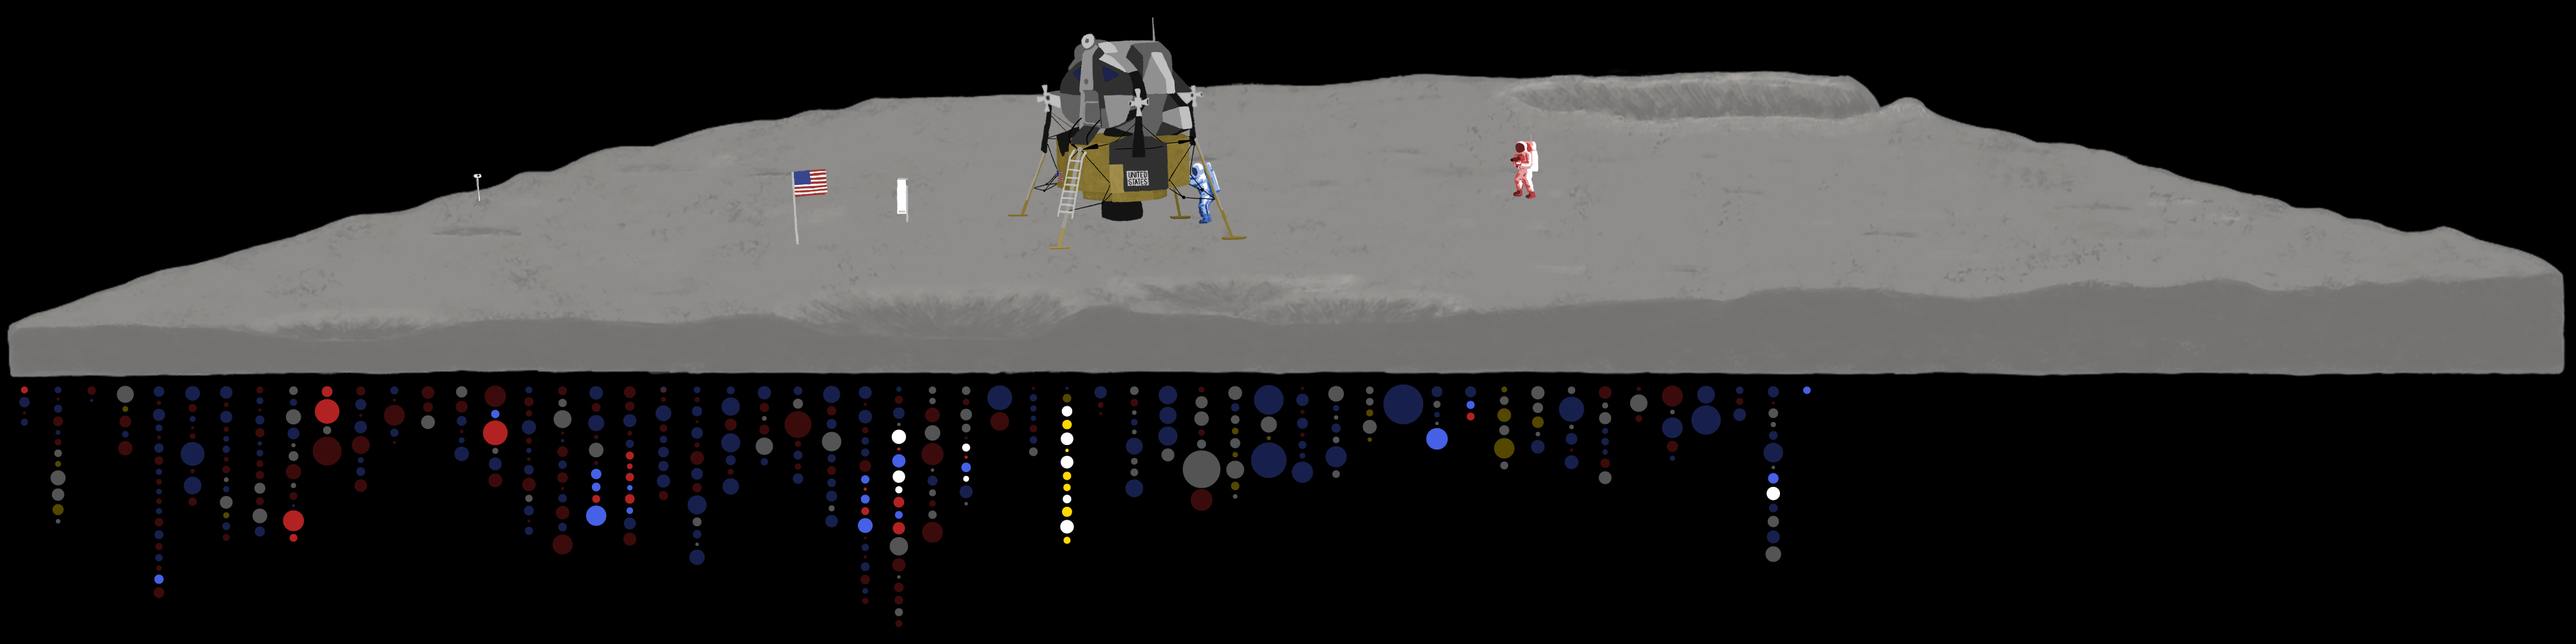
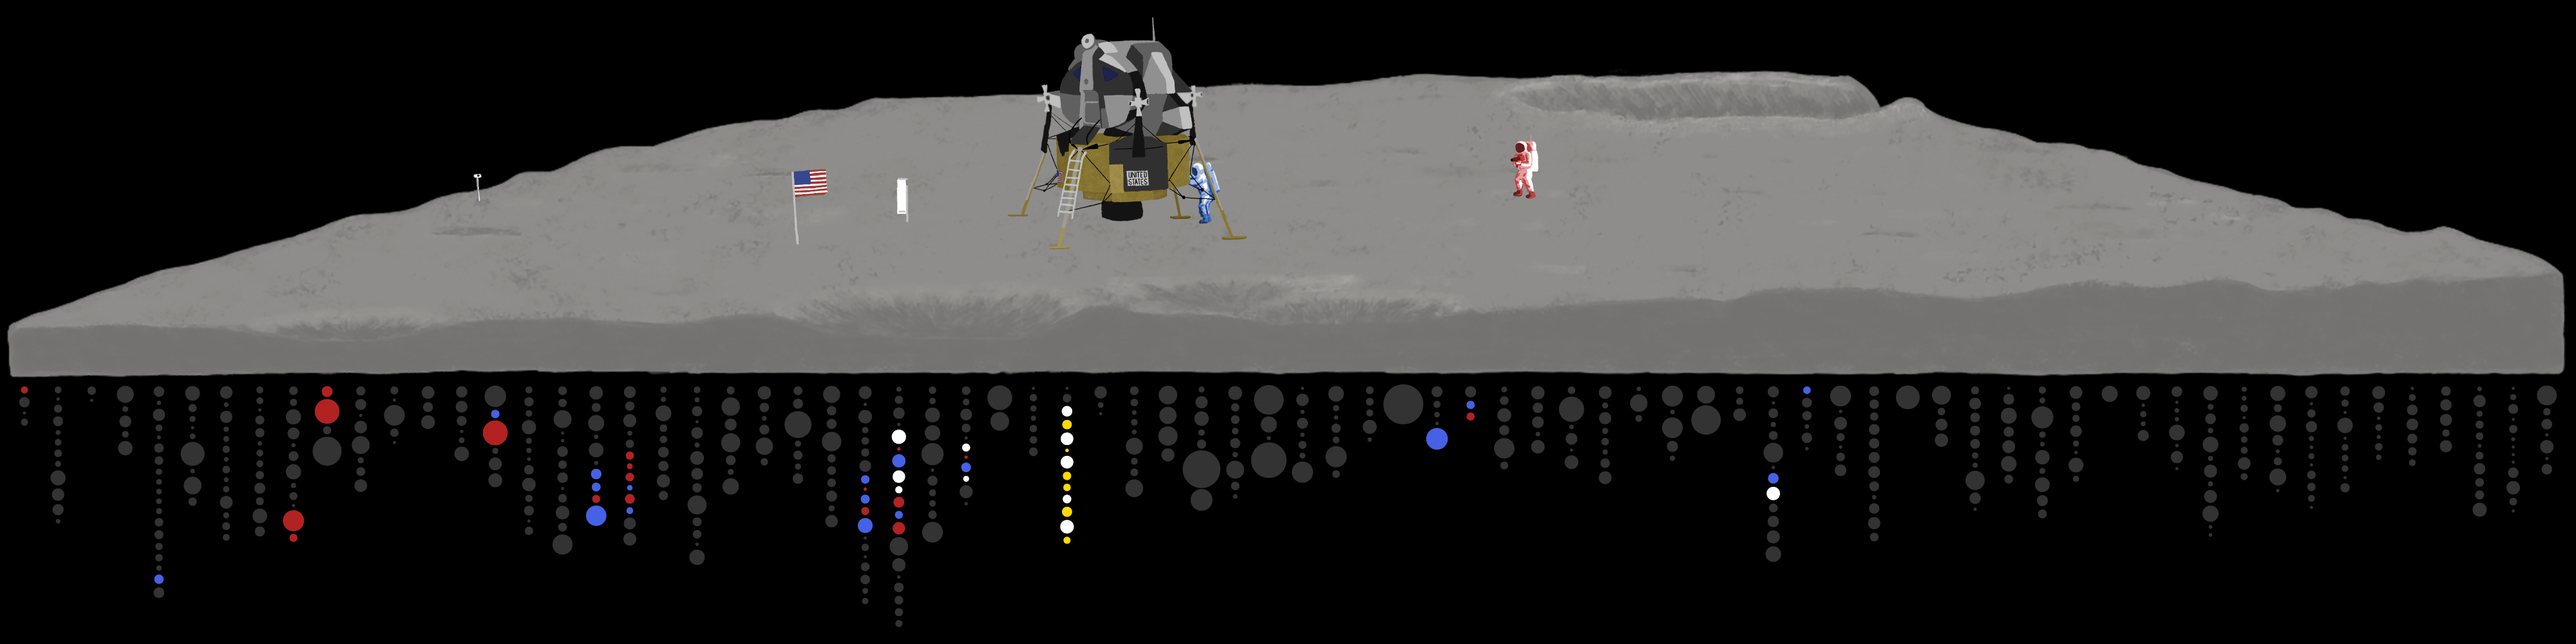
grey transcript plus more comments

diff --git a/index.html b/index.html
@@ -43,7 +43,7 @@ Copyright 2019, RJ Andrews, All rights reserved.-->
 			<p class='intro__dek'>
                     <br>After four days of travel and a daring landing, Apollo&nbsp;11’s Lunar Module <i>Eagle</i> touched down on the Moon. Six hours later the hatch opened. For the next 2.5 hours astronauts <span class="n">&nbsp;NEIL&nbsp;ARMSTRONG&nbsp;</span> and <span class="b">&nbsp;BUZZ&nbsp;ALDRIN&nbsp;</span> explored an area the size of a baseball diamond.<br>
                     <br>
-                    This is the story about what happened on that 1969 Moonwalk, told with highlights from the original transmission log. A pictorial map at the bottom of your screen shows astronaut activity. A timeline below the map shows one bubble for every radio transmission across the Moonwalk. Scroll to see the adventure.<br>
+                    This is the story about what happened on that 1969 Moonwalk, told with highlights from the original transmission log. Scroll to see the adventure.<br>
                     <br>
                     <br>
 
@@ -87,14 +87,16 @@ Copyright 2019, RJ Andrews, All rights reserved.-->
                 <div class='step' data-step='0'>
                     <p>h:mm</p>
                     <ul>
-                        <li class="comment">Mission highlights are color-coded to speaker and presented with hour:minute since hatch opening.</li>
+                        <li class="comment ccenter">Mission highlights are color-coded to speaker and presented with hour:minute since hatch opening.</li>
                     </ul>
                 </div>
                 <div class='step' data-step='1'>
                     <p>0:00</p>
                     <ul>
+                        <li class="comment cneil">Neil Armstrong</li>
                         <li class="neil">The hatch is coming open.</li>
-                        <li class="comment">...</li>
+                        <li class="comment ccenter">...</li>
+                        <li class="comment cbuzz">Buzz Aldrin</li>
                         <li class="buzz">About ready to go down and get some Moon rock?</li>
                     </ul>
                     
@@ -102,25 +104,27 @@ Copyright 2019, RJ Andrews, All rights reserved.-->
 				<div class='step' data-step='2'>
                     <p>0:16</p>
                     <ul>
-                        <li class="comment">LM ("LEM") stands for Lunar Module.</li>
+                        <li class="comment ccenter">LM ("LEM") stands for Lunar Module.</li>
                         <li class="neil">I’m at the foot of the ladder. The LM footpads are only depressed in the surface about 1 or 2 inches, although the surface appears to be very, very fine grained, as you get close to it. It’s almost like a powder. Down there, it’s very fine.</li>
                         <li class="neil">I’m going to step off the LM now.</li>
                         <li class="neil">THAT'S ONE SMALL STEP FOR (A) MAN, ONE GIANT LEAP FOR MANKIND</li>
-                        <li class="comment" >Hover (or touch) illustrations</li>
+                        <li class="comment ccenter" >Hover (or touch) illustrations</li>
                         <img src="media/step.jpg" alt="none" class="img-b"
                             onmouseover="this.src='media/step.gif'"
                             onmouseout="this.src='media/step.jpg'"
                             ontouchstart="this.src='media/step.gif'"
                             ontouchend="this.src='media/step.jpg'">
                         <li class="neil">And the - the surface is fine and powdery. I can - I can pick it up loosely with my toe. It does adhere in fine layers like powdered charcoal to the sole and sides of my boots. I only go in a small fraction of an inch, maybe an eighth of an inch, but I can see the footprints of my boots and the treads in the fine, sandy particles.</li>
-                        <li class="commentlong">Transcript excerpts highlighted by this story are brighter bubbles on below timeline.</li>
                     </ul>
                     
 				</div>
 				<div class='step' data-step='3'>
                     <p>0:27</p>
                     <ul>
+                        <li class="comment clong">The perspective map at the bottom of your screen will show activity as astronauts move about the Moon.</li>
+                        <li class="comment cbuzz">Buzz Aldrin</li>
                         <li class="buzz">That looks beautiful from here, Neil.</li>
+                        <li class="comment cneil">Neil Armstrong</li>
                         <li class="neil">It has a stark beauty all its own. It’s like much of the high desert of the United States. It’s different but it’s very pretty out here. </li>
                         <!--Be advised that a lot of the rock samples out here, the hard rock samples, have what appear to be vesicles in the surface. Also, I am looking at one now that appears to have some sort of phenocryst.-->
                     </ul>
@@ -129,6 +133,7 @@ Copyright 2019, RJ Andrews, All rights reserved.-->
                 <div class='step' data-step='4'>
                         <p>0:34</p>
                         <ul>
+                            <li class="comment clong">You are reading highlight excerpts from the transcript. They will appear as colorful bubbles on the timeline below.</li>
                             <li class="buzz">Okay. Now I want to back up and partially close the hatch.</li>
                             <li class="buzz">Making sure not to lock it on my way out.</li>
                             <li class="neil">(Laughter) A pretty good thought.</li>
@@ -143,7 +148,7 @@ Copyright 2019, RJ Andrews, All rights reserved.-->
                             ontouchstart="this.src='media/ladder.gif'"
                             ontouchend="this.src='media/ladder.jpg'">
                         <ul>
-                            <li class="commentlong">Most photos are of Buzz because Neil operated the Hasselblad camera for most of the Moonwalk.</li>
+                            <li class="comment clong">Most photos are of Buzz because Neil operated the Hasselblad camera for most of the Moonwalk.</li>
                             <li class="neil">A little more. About another inch.</li>
                             <li class="neil">THERE YOU GOT IT.</li>
                             <li class="neil">That’s a good step. About a 3-footer.</li>
@@ -156,7 +161,7 @@ Copyright 2019, RJ Andrews, All rights reserved.-->
                 <div class='step' data-step='6'>
                         <p>0:49</p>
                         <ul>
-                            <li class="comment">Buzz feeds TV cable to Neil.</li>
+                            <li class="comment ccenter">Buzz feeds TV cable to Neil.</li>
                             <li class="buzz">Now keep going. We've got a lot more.</li>
                             <li class="neil">Okay.</li>
                             <li class="buzz">Getting a little harder to pull out, here.</li>
@@ -168,7 +173,7 @@ Copyright 2019, RJ Andrews, All rights reserved.-->
                 <div class='step' data-step='7'>
                         <p>0:51</p>
                         <ul>
-                        <li class="commentlong">The capsule communicator (CAPCOM, in white text) was an astronaut at Mission Control in Houston.</li>
+                        <li class="comment clong">The capsule communicator (CAPCOM, in white text) was an astronaut at Mission Control in Houston. Here he directs Neil to get a centered picture for TV.</li>
                         <li class="capcom">Neil, this is Houston. The field of view is okay. We'd like you to aim it a little bit more to the right. Over.</li>
                         <li class="neil">Okay.</li>
                         <li class="buzz">Okay. That's all the cable we have. *** not going out. I'll start working on the solar wind - -</li>
@@ -182,12 +187,12 @@ Copyright 2019, RJ Andrews, All rights reserved.-->
                 </div>
                 <div class='step' data-step='8'>
                         <ul>
-                            <li class="comment">...</li>
+                            <li class="comment ccenter">...</li>
                             <li class="capcom"> Okay. That looks good there, Neil.</li>
                             <li class="neil">Okay.</li>
                             <li class="buzz">Okay. You can make a Mark, Houston. *** deployed.</li>
                             <li class="capcom"> Roger. Solar wind.</li>
-                            <li class="commentlong">The Solar Wind Composition Experiment was an alumninum sheet that absorbed solar-wind particles. The foil was returned to Earth for laboratory analysis.</li>
+                            <li class="comment clong">The Solar Wind Composition Experiment was an alumninum sheet that absorbed solar-wind particles. The foil was returned to Earth for laboratory analysis.</li>
                         </ul>
                 </div>
                 <div class='step' data-step='9'>
@@ -199,10 +204,10 @@ Copyright 2019, RJ Andrews, All rights reserved.-->
                     <img src="media/collins-yellow.png" alt="none" id="orbit" class="module"></img>
                     
                     <ul>
-                        <li class="commentlong">Crewmember Michael&nbsp;Collins orbits above in the Command Service Module.</li>
+                        <li class="comment clong">Crewmember Michael&nbsp;Collins orbits above in the Command Service Module.</li>
                         <li class="mike"> Yes. Reading you loud and clear. How's it going?</li>
-                        <li class="comment">EVA stands for extra vehicular activity.</li>
                         <li class="capcom"> Roger. The EVA is progressing beautifully. I believe they are setting up the flag now.</li>
+                        <li class="comment ccenter">EVA stands for extra vehicular activity.</li>
                         <li class="mike"> Great.</li>
                         <li class="capcom"> I guess you're about the only person around that doesn't have TV coverage of the scene.</li>
                         <li class="mike"> That's all right. I don't mind a bit.</li>
@@ -223,8 +228,9 @@ Copyright 2019, RJ Andrews, All rights reserved.-->
 				<div class='step' data-step='10'>
                     <p>1:24</p>
                     <ul>
+                        <li class="comment clong">Each column of the bubble timeline below represents two minutes of the Moonwalk.</li>
                         <li class="buzz">And right in this area, there are two craters. The one that's right in front of me now as I look off in about the eleven o'clock position from the spacecraft, about 30 to 35 feet ... There's several rocks and boulders 6 to 8 inches across.</li>
-                        <li class="comment">...</li>
+                        <li class="comment ccenter">...</li>
                         <li class="buzz">How's the bulk sample coming, Neil?</li>
                         <li class="neil">Bulk sample is just being sealed.</li>
                     </ul>
@@ -233,9 +239,10 @@ Copyright 2019, RJ Andrews, All rights reserved.-->
                 <div class='step' data-step='11'>
                     <p>1:45</p>
                     <ul>
+                        <li class="comment ccenter">SEQ stands for Scientific Equipment</li>
                         <li class="buzz"> Can you see us underneath the LM over at the SEQ bay, Houston?</li>
-                        <li class="capcom"> Yes indeed, Buzz. We can see your feet sticking our underneath the structure of the LM descent stage.</li>
-                        <li class="comment">...</li>
+                        <li class="capcom"> Yes indeed, Buzz. We can see your feet sticking out underneath the structure of the LM descent stage.</li>
+                        <li class="comment ccenter">...</li>
                         <li class="buzz"> You want to pick an area, Neil?</li>
                     </ul>
                     <img src="media/mesa.jpg" alt="none" class="img-n"
@@ -248,6 +255,7 @@ Copyright 2019, RJ Andrews, All rights reserved.-->
                 <div class='step' data-step='12'>
                     <p>01:50</p>
                     <ul>
+                        <li class="comment ccenter">Buzz carries experiments as they look for a place to setup.</li>
                         <li class="buzz">Have you got us a good area picked out?</li>
                         <li class="neil">Yes. I think right out on that rise out there is probably as good as any.</li>
                         <li class="neil">I'll probably stay on the high ground there and - -</li>
@@ -264,11 +272,11 @@ Copyright 2019, RJ Andrews, All rights reserved.-->
                 <div class='step' data-step='13'>
                     <p>1:55</p>
                     <ul>
-                        <li class="commentlong">The Passive Seismic Experiment (PSE) detected lunar "moonquakes" and provided information about the internal structure of the Moon.</li>
+                        <li class="comment clong">The Passive Seismic Experiment (PSE) detected lunar "moonquakes" and provided information about the internal structure of the Moon.</li>
                         <li class="buzz">Roger. I say I'm not having too much success in leveling the PSE experiment.</li>
                         <li class="neil">The laser reflector is installed and the bubble is leveled and the alignment appears to be good.</li>
                         <li class="capcom"> Neil, this is Houston. Roger. Out.</li>
-                        <li class="comment"> "B B" stands for Ball Bearing.</li>
+                        <li class="comment ccenter"> "B B" stands for Ball Bearing.</li>
                         <li class="buzz">Hey, you want to take a look at this B B and see what you make out of it?</li>
                         <li class="neil">I find it pretty hard to get perfectly level, too.</li>
                         <li class="buzz">That B B likes the outside. It won't go on the inside.</li>
@@ -289,14 +297,14 @@ Copyright 2019, RJ Andrews, All rights reserved.-->
                     <ul>
                         <li class="neil">Oh, shoot. Would you believe the ball is right in the middle now?</li>
                         <li class="buzz">Wonderful. Take a picture before it moves.</li>
-                        <li class="comment">Neil took the photo.<br>It turned out blurry.</li>
+                        <li class="comment ccenter">Neil took the photo.<br>It turned out blurry.</li>
                     </ul>
                 </div>
 
                 <div class='step' data-step='15'>
                     <p>2:04</p>
                     <ul>
-                        <li class="comment">Neil runs 200 feet from the LM to look at Little West Crater.</li>
+                        <li class="comment ccenter">Neil runs 200 feet from the LM to look at Little West Crater.</li>
                         <li class="capcom"> Buzz, this is Houston. You've got about 10 minutes left now prior to commencing your EVA termination activities. Over.</li>
                         <li class="buzz">Roger. I understand.</li>
                     </ul>
@@ -305,7 +313,7 @@ Copyright 2019, RJ Andrews, All rights reserved.-->
                 <div class='step' data-step='16'>
                     <p>2:08</p>
                     <ul>
-                        <li class="comment">Neil rejoins as Buzz collects two core samples, about 8 inches deep.</li>
+                        <li class="comment ccenter">Neil rejoins as Buzz collects two core samples, about 8 inches deep.</li>
                         <li class="buzz">I hope you're watching how hard I have to hit this into the ground, to the tune of about 5 inches, Houston.</li>    
                         <li class="capcom"> Roger.</li>
                         <li class="buzz">It almost looks wet.</li>
@@ -321,12 +329,13 @@ Copyright 2019, RJ Andrews, All rights reserved.-->
                 <div class='step' data-step='17'>
                         <p>2:12</p>
                         <ul>
+                            <li class="comment ccenter">Capcom directs and offers reminders as the end of Moonwalk nears.</li>
                             <li class="capcom"> Neil, this is Houston. After you've got the core tubes and the solar wind, anything else that you can throw into the box would be acceptable.</li>
                             <li class="neil">Righto.</li>
-                            <li class="comment">...</li>
+                            <li class="comment ccenter">...</li>
                             <li class="capcom"> Buzz, this is Houston. It's about time for you to start your EVA closeout activities.</li>
                             <li class="buzz">Roger. That's in progress.</li>
-                            <li class="comment">...</li>
+                            <li class="comment ccenter">...</li>
                             <li class="buzz"> Anything more before I head on up, Bruce?</li>
                             <li class="capcom"> Negative. Head on up the ladder, Buzz.</li>
                         </ul>
@@ -344,7 +353,7 @@ Copyright 2019, RJ Andrews, All rights reserved.-->
                     <div class='step' data-step='19'>
                         <p>2:32</p>
                         <ul>
-                            <li class="comment">Buzz helps Neil into LM.</li>
+                            <li class="comment ccenter">Buzz helps Neil into LM.</li>
                             <li class="buzz">Just keep your head down close. Now start arching your back. That's good. Plenty of room. Now, all right, arch your back a little, your head up against *** Roll right just a little bit. Head down. ... in good shape.</li>
                             <li class="neil">Thank you. Am I bumping now?</li>
                             <li class="buzz">No, you're clear. You're rubbing up against me a little bit.</li>

diff --git a/style.css b/style.css
@@ -403,23 +403,54 @@ figure p {
   }
 
   .comment{
+    text-transform: uppercase;
+    font-family: Courier, Helvetica, sans-serif;
+    background: rgba(0,0,0,0);
+  }
+
+  .ccenter{
     margin-left: 10%;
     width: 80%;
     text-align: center;
-    text-transform: uppercase;
-    font-family: Courier, Helvetica, sans-serif;
-    background: rgba(0,0,0,0);
     color: grey;
   }
 
-  .commentlong{
+  .clong{
     margin-left: 10%;
     width: 80%;
-    text-transform: uppercase;
     text-align: left;
-    font-family: Courier, Helvetica, sans-serif;
-    background: rgba(0,0,0,0);
     color: grey;
+  }
+
+  .cneil{
+    margin-left: 0%;
+    width: 100%;
+    text-align: left;
+    text-transform: uppercase;
+    color: var(--neil-color);
+    background: rgba(0,0,0,0);
+    margin-bottom: 0;
+    padding-bottom: 0;
+  }
+
+  .cbuzz{
+    margin-left: 50%;
+    width: 50%;
+    text-align: right;
+    text-transform: uppercase;
+    color: var(--buzz-color);
+    background: rgba(0,0,0,0);
+    margin-bottom: 0;
+    padding-bottom: 0;
+  }
+
+  .ccapcom{
+    margin-left: 10%;
+    width: 80%;
+    text-align: left;
+    color: white;
+    margin-bottom: 0;
+    padding-bottom: 0;
   }
 
   .break{
